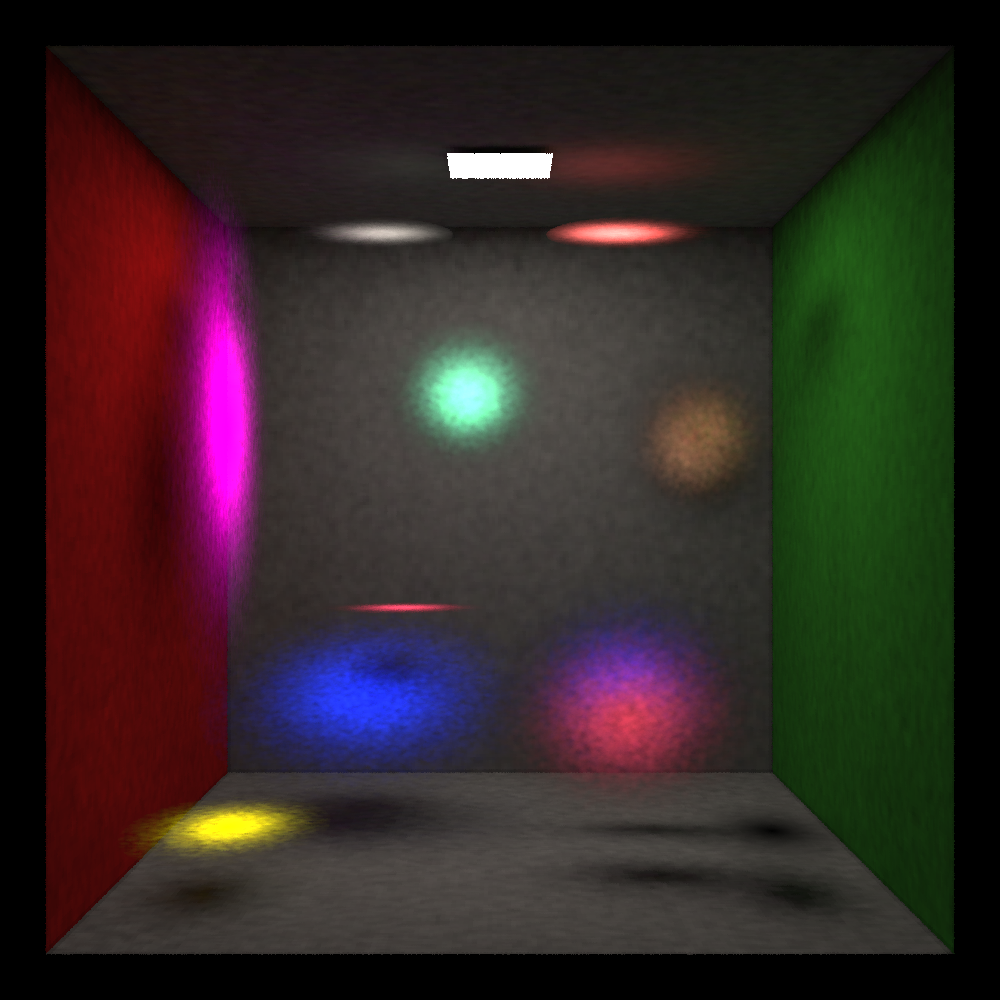
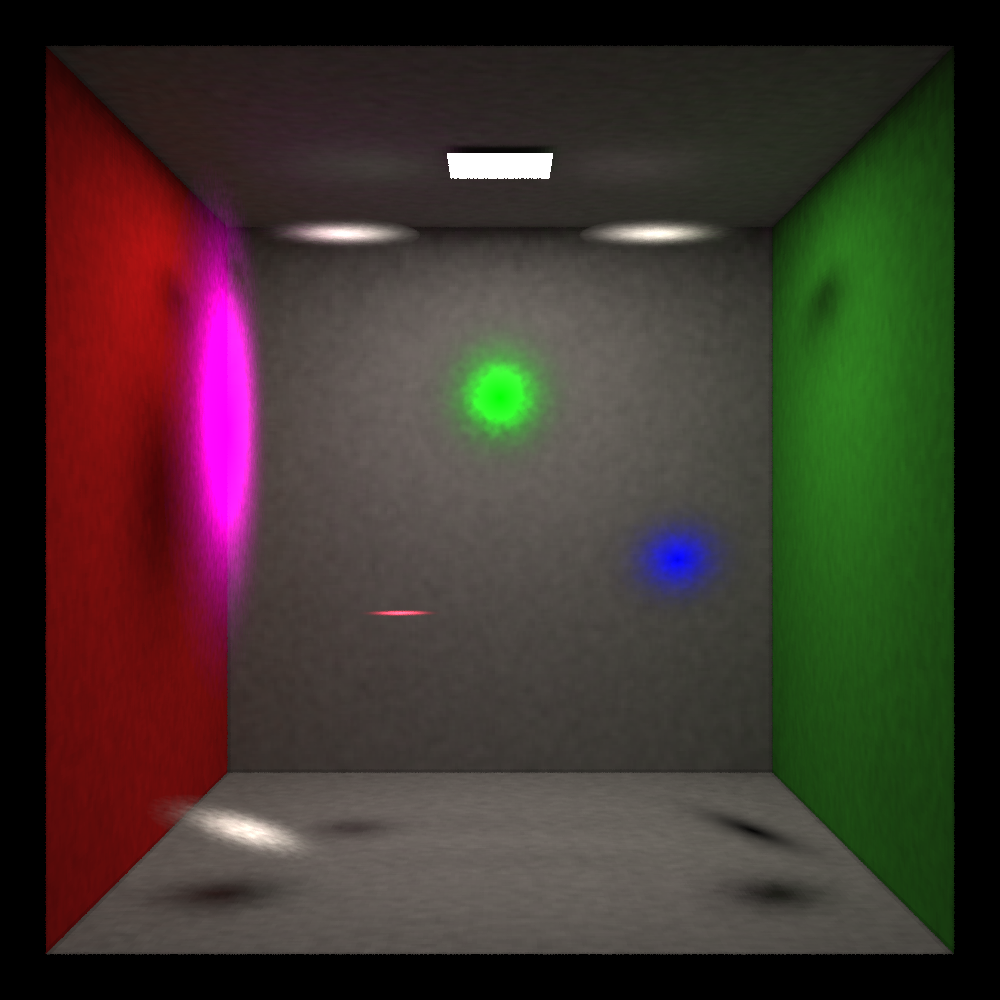
Got some gradients working

diff --git a/Pale/Renderer/Kernels/AdjointKernels.cpp b/Pale/Renderer/Kernels/AdjointKernels.cpp
@@ -135,7 +135,7 @@ namespace Pale {
                     auto& instance = scene.instances[worldHit.instanceIndex];
 
                     Ray& ray = rayState.ray;
-                    float3 grad_L(0.0f);
+                    float3 d_cost_d_pos(0.0f);
                     if (worldHit.splatEventCount == 1 && instance.geometryType == GeometryType::Mesh) {
                         auto splatEvent = worldHit.splatEvents[0];
                         float3 x = ray.origin;
@@ -169,8 +169,8 @@ namespace Pale {
                         float su = surfel.scale.x();
                         float sv = surfel.scale.y();
 
-                        float3 du_dc = ((tu_d / denom) * surfelNormal - surfel.tanU) * su;
-                        float3 dv_dc = ((tv_d / denom) * surfelNormal - surfel.tanV) * sv;
+                        float3 du_dc = ((tu_d / denom) * surfelNormal - surfel.tanU) / su;
+                        float3 dv_dc = ((tv_d / denom) * surfelNormal - surfel.tanV) / sv;
 
                         float3 d_alpha_dc = -alpha * (uv[0] * du_dc + uv[1] * dv_dc);
                         float3 dtau_dc = -d_alpha_dc;
@@ -179,24 +179,76 @@ namespace Pale {
                         const float r2Background = dot(segmentVector, segmentVector);
                         if (r2Background <= 0.0f) return;
 
+                        /*
                         const float rBackground = sycl::sqrt(r2Background);
                         const float3 unitDirXY = segmentVector / rBackground;
                         const float cosineEmitBackground = dot(worldHit.geometricNormalW, -unitDirXY);
                         const float cosineReceiveBackground = dot(ray.normal, unitDirXY);
                         const float geometricBackground =
-                                (cosineEmitBackground * cosineReceiveBackground) / r2Background;
+                            (cosineEmitBackground * cosineReceiveBackground) / r2Background;
                         if (geometricBackground <= 0.0f) return;
+                        */
 
                         const float3 backgroundRadianceRGB = estimateRadianceFromPhotonMap(worldHit, scene, photonMap);
-                        const float backgroundRadianceY = luminanceGrayscale(backgroundRadianceRGB);
+                        const float L_mesh = luminanceGrayscale(backgroundRadianceRGB);
 
-                        grad_L = dtau_dc * backgroundRadianceRGB * geometricBackground;
+                        float3 S_a_L = estimateSurfelRadianceFromPhotonMap(
+                            worldHit.splatEvents[0], ray.direction, scene, photonMap);
+                        float L_surfel = luminance(S_a_L);
 
+                        float brdf = 1.0f; // placeholder
+                        // p(x, theta) = p(y, -phi) * d_tau * fs * V * G
+                        float3 p_adjoint = rayState.pathThroughput;
+                        d_cost_d_pos = p_adjoint * dtau_dc * L_mesh;
+                    }
+
+                    if (worldHit.splatEventCount == 1 && instance.geometryType == GeometryType::PointCloud) {
+                        auto splatEvent = worldHit.splatEvents[0];
+                        float3 x = ray.origin;
+                        float3 y = worldHit.hitPositionW;
+
+                        const auto surfel = scene.points[splatEvent.primitiveIndex];
+                        const float3 canonicalNormalW = normalize(cross(surfel.tanU, surfel.tanV));
+                        const int travelSideSign = (dot(canonicalNormalW, -rayState.ray.direction) >= 0.0f) ? 1 : -1;
+                        const float3 surfelNormal = (travelSideSign >= 0) ? canonicalNormalW : (-canonicalNormalW);
+
+
+                        float denom = dot(surfelNormal, ray.direction);
+                        if (abs(denom) <= 1e-6)
+                            return;
+                        // Intersection on the segment:
+                        float tParam = dot(surfelNormal, (surfel.position - x)) / denom;
+                        if (abs(tParam) <= 0.0f)
+                            return;
+
+                        float3 hitPoint = x + tParam * ray.direction;
+
+                        float2 uv = phiInverse(hitPoint, surfel);
+                        float alpha = splatEvent.alpha;
+                        float tau = 1 - alpha;
+
+                        float tu_d = dot(surfel.tanU, ray.direction);
+                        float tv_d = dot(surfel.tanV, ray.direction);
+
+                        float su = surfel.scale.x();
+                        float sv = surfel.scale.y();
+
+                        float3 du_dc = ((tu_d / denom) * surfelNormal - surfel.tanU) / su;
+                        float3 dv_dc = ((tv_d / denom) * surfelNormal - surfel.tanV) / sv;
+
+                        float3 d_alpha_dc = -alpha * (uv[0] * du_dc + uv[1] * dv_dc);
+
+                        float3 S_a_L = estimateSurfelRadianceFromPhotonMap(
+                            worldHit.splatEvents[0], ray.direction, scene, photonMap, true);
+                        float L_surfel = luminanceGrayscale(S_a_L);
+
+                        float3 p_adjoint = rayState.pathThroughput;
+                        d_cost_d_pos = p_adjoint *  d_alpha_dc * L_surfel;
                     }
 
                     if (rayState.bounceIndex >= 0) {
                         const float3 parameterAxis = {1.0f, 0.0f, 0.00f};
-                        const float dVdp_scalar = dot(grad_L, parameterAxis);
+                        const float dVdp_scalar = dot(d_cost_d_pos, parameterAxis);
 
                         float4& gradImageDst = sensor.framebuffer[rayState.pixelIndex];
                         atomicAddFloatToImage(&gradImageDst, dVdp_scalar);
@@ -467,7 +519,6 @@ namespace Pale {
                         int debug = 1;
                     }
                     */
-
                 });
         });
         queue.wait();
@@ -499,16 +550,92 @@ namespace Pale {
                     const uint64_t seed = rng::makePerItemSeed1D(baseSeed, rayIndex);
                     rng::Xorshift128 rng128(seed);
 
-                    const RayState inState = raysIn[rayIndex];
-                    const WorldHit hit = hitRecords[rayIndex];
+                    const RayState rayState = raysIn[rayIndex];
+                    const WorldHit worldHit = hitRecords[rayIndex];
 
                     RayState outState{};
-                    if (!hit.hit) {
+                    if (!worldHit.hit) {
                         raysOut[rayIndex] = outState;
                         hitRecords[rayIndex] = WorldHit{};
                         return;
                     } // dead ray
 
+
+                    const InstanceRecord instance = scene.instances[worldHit.instanceIndex];
+                    const float3 canonicalNormalW = worldHit.geometricNormalW;
+                    const int travelSideSign = signNonZero(dot(canonicalNormalW, -rayState.ray.direction));
+                    const float3 enteredSideNormalW = (travelSideSign >= 0) ? canonicalNormalW : (-canonicalNormalW);
+                    float3 sampledOutgoingDirectionW{};
+                    float3 throughputMultiplier = float3(1.0f);
+
+                    auto light = scene.lights[0];
+                    auto lightTransform = scene.transforms[light.transformIndex];
+                    float3 lightPosition = float3{lightTransform.objectToWorld.row[0].w(), lightTransform.objectToWorld.row[1].w(), lightTransform.objectToWorld.row[2].w()};
+                    const float3 toLight = lightPosition - worldHit.hitPositionW;
+                    const float distanceToLight = length(toLight);
+                    if (distanceToLight <= 1e-6f) return;
+                    const float3 lightDirection = toLight / distanceToLight;
+
+                    // If we hit instance was a mesh do ordinary BRDF stuff.
+                    if (instance.geometryType == GeometryType::Mesh) {
+                        float sampledPdf = 0.0f;
+                        const GPUMaterial material = scene.materials[instance.materialIndex];
+                        sampleCosineHemisphere(rng128, enteredSideNormalW, sampledOutgoingDirectionW, sampledPdf);
+                        sampledPdf = sycl::fmax(sampledPdf, 1e-6f);
+                        const float cosTheta = sycl::fmax(0.0f, dot(sampledOutgoingDirectionW, enteredSideNormalW));
+                        const float3 lambertBrdf = material.baseColor * M_1_PIf;
+                        throughputMultiplier = lambertBrdf * (cosTheta / sampledPdf) * worldHit.transmissivity;
+                    }
+                    // If our hit instance was a point cloud it means we hit a surfel
+                    // Now we do either BRDF or BTDF
+                    if (instance.geometryType == GeometryType::PointCloud) {
+                        // PointCloud
+                        GPUMaterial material{};
+                        material.baseColor = scene.points[worldHit.primitiveIndex].color;
+                        const float3 lambertBrdf = material.baseColor * M_1_PIf;
+
+                        const float interactionAlpha = worldHit.splatEvents[0].alpha; // α
+                        const float reflectWeight = 0.0f * interactionAlpha; // ρ_r = α/2
+                        const float transmitWeight = 0.5f * interactionAlpha; // ρ_t = α/2
+
+                        // event probabilities
+                        const float probReflect = reflectWeight / interactionAlpha; // a 50/50 if we reflect or transmit
+                        const bool chooseReflect = (rng128.nextFloat() < probReflect);
+                        if (chooseReflect) {
+                            float sampledPdf = 0.0f;
+                            // Diffuse reflect on entered side
+                            sampleCosineHemisphere(rng128, enteredSideNormalW, sampledOutgoingDirectionW, sampledPdf);
+                            sampledPdf = sycl::fmax(sampledPdf, 1e-6f);
+                            const float cosTheta = sycl::fmax(0.0f, dot(sampledOutgoingDirectionW, enteredSideNormalW));
+                            throughputMultiplier =
+                                    material.baseColor * throughputMultiplier * lambertBrdf * (cosTheta / sampledPdf);
+                        } else {
+                            float sampledPdf = 0.0f;
+                            // Diffuse transmit: cosine hemisphere on the opposite side
+                            const float3 oppositeSideNormalW = -enteredSideNormalW;
+                            sampleCosineHemisphere(rng128, oppositeSideNormalW, sampledOutgoingDirectionW, sampledPdf);
+                            sampledPdf = sycl::fmax(sampledPdf, 1e-6f);
+                            const float cosTheta =
+                                    sycl::fmax(0.0f, dot(sampledOutgoingDirectionW, oppositeSideNormalW));
+                            throughputMultiplier =
+                                    material.baseColor * throughputMultiplier * lambertBrdf * (cosTheta / sampledPdf);
+                        }
+                    }
+
+                    sampledOutgoingDirectionW = lightDirection;
+                    throughputMultiplier = throughputMultiplier * 1 / (distanceToLight * distanceToLight);
+                    // Offset origin robustly
+                    constexpr float kEps = 1e-5f;
+                    outState.ray.origin = worldHit.hitPositionW + enteredSideNormalW * 1e-4f;
+                    outState.ray.direction = sampledOutgoingDirectionW;
+                    outState.bounceIndex = rayState.bounceIndex + 1;
+                    outState.pixelIndex = rayState.pixelIndex;
+                    outState.pathThroughput = rayState.pathThroughput * throughputMultiplier;
+
+                    raysOut[rayIndex] = outState;
+
+
+                    /*
                     // --- Canonical normal at the hit (no face-forwarding stored in hit) ---
                     const float3 canonicalNormalW = hit.geometricNormalW;
                     // --- Orient to the side we entered first (two-sided, side-correct sampling) ---
@@ -525,6 +652,7 @@ namespace Pale {
                         // volumetric or your chosen surfel phase sampling
                         sampleCosineHemisphere(rng128, shadingNormal, newDirection, pdf);
                         material.baseColor = scene.points[hit.primitiveIndex].color;
+                        // TODO USE BRDF + BTDF
                     }
                     else {
                         // surface: cosine-weighted about the geometric normal
@@ -550,18 +678,9 @@ namespace Pale {
                         bsdfFactor = inState.pathThroughput * (material.baseColor / M_PIf) * (
                             cosTheta / sycl::fmax(pdf, 1e-8f));
                     }
+                    */
 
-                    // Offset origin robustly
-                    constexpr float kEps = 1e-5f;
 
-                    outState.ray.origin = hit.hitPositionW + shadingNormal * kEps;
-                    outState.ray.direction = newDirection;
-                    outState.ray.normal = shadingNormal;
-                    outState.bounceIndex = inState.bounceIndex + 1;
-                    outState.pixelIndex = inState.pixelIndex;
-                    outState.pathThroughput = bsdfFactor;
-
-                    raysOut[rayIndex] = outState;
                 });
         });
         queue.wait();

diff --git a/Pale/Renderer/Kernels/PrimalKernels.cpp b/Pale/Renderer/Kernels/PrimalKernels.cpp
@@ -423,7 +423,7 @@ namespace Pale {
                             worldHit.geometricNormalW = normalize(cross(worldP1 - worldP0, worldP2 - worldP0));
                             float distanceToCamera = length(worldHit.hitPositionW - ray.origin);
                             float surfaceCos = sycl::fmax(0.f, dot(worldHit.geometricNormalW, -ray.direction));
-                            float cameraCos = sycl::fmax(0.f, dot(ray.normal, ray.direction)); // optional
+                            float cameraCos = sycl::fmax(0.f, dot(sensor.camera.forward, ray.direction)); // optional
                             float geometricToCamera = (surfaceCos * cameraCos) / (distanceToCamera * distanceToCamera);
                             // If the mesh itself is emissive, add its emitted radiance (already radiance units)
                             const GPUMaterial &material = scene.materials[instance.materialIndex];

diff --git a/Pale/Renderer/PathTracer.cpp b/Pale/Renderer/PathTracer.cpp
@@ -29,10 +29,10 @@ namespace Pale {
         //  cuda/rocm
         m_settings.photonsPerLaunch = 1e6; // 1e6
         m_settings.maxBounces = 4;
-        m_settings.numForwardPasses = 2;
-        m_settings.numGatherPasses = 2;
-        m_settings.maxAdjointBounces = 1;
-        m_settings.adjointSamplesPerPixel = 1;
+        m_settings.numForwardPasses = 4;
+        m_settings.numGatherPasses = 4;
+        m_settings.maxAdjointBounces = 2;
+        m_settings.adjointSamplesPerPixel = 16;
         // omp+
 
         //m_settings.photonsPerLaunch = 1e6; // 1e6

diff --git a/Pale/Renderer/Kernels/KernelHelpers.h b/Pale/Renderer/Kernels/KernelHelpers.h
@@ -540,7 +540,7 @@ namespace Pale {
         const float3 worldFar{worldFarH.x() * invW, worldFarH.y() * invW, worldFarH.z() * invW};
         const float4 camPosH = cam.invView * float4{0, 0, 0, 1};
         const float3 origin{camPosH.x(), camPosH.y(), camPosH.z()};
-        return Ray{origin, normalize(worldFar - origin), cam.forward};
+        return Ray{origin, normalize(worldFar - origin)};
     }
 
     // Photon map lookup helper.

diff --git a/Pale/Renderer/GPUDataStructures.h b/Pale/Renderer/GPUDataStructures.h
@@ -250,7 +250,6 @@ namespace Pale {
     struct alignas(16) Ray {
         float3 origin{0.0f}; // 16
         float3 direction{0.0f}; // 32
-        float3 normal{0.0f};
     };
 
     static_assert(std::is_trivially_copyable_v<Ray>);
